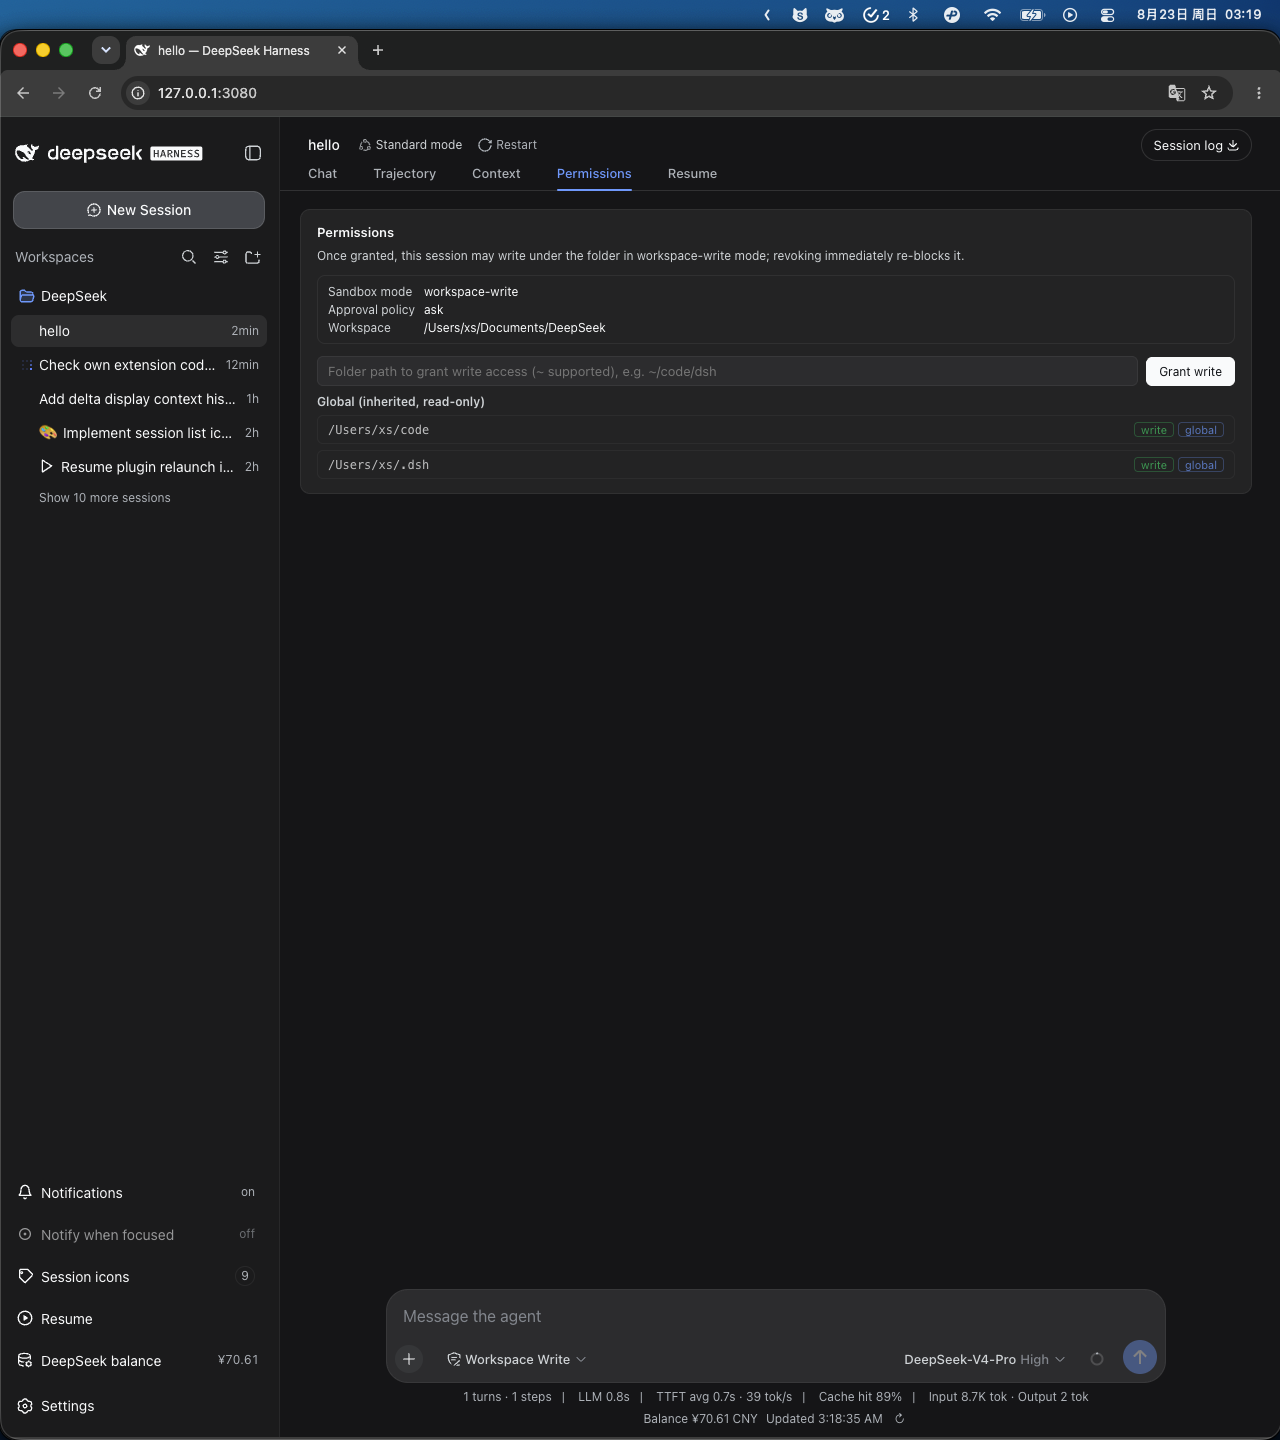
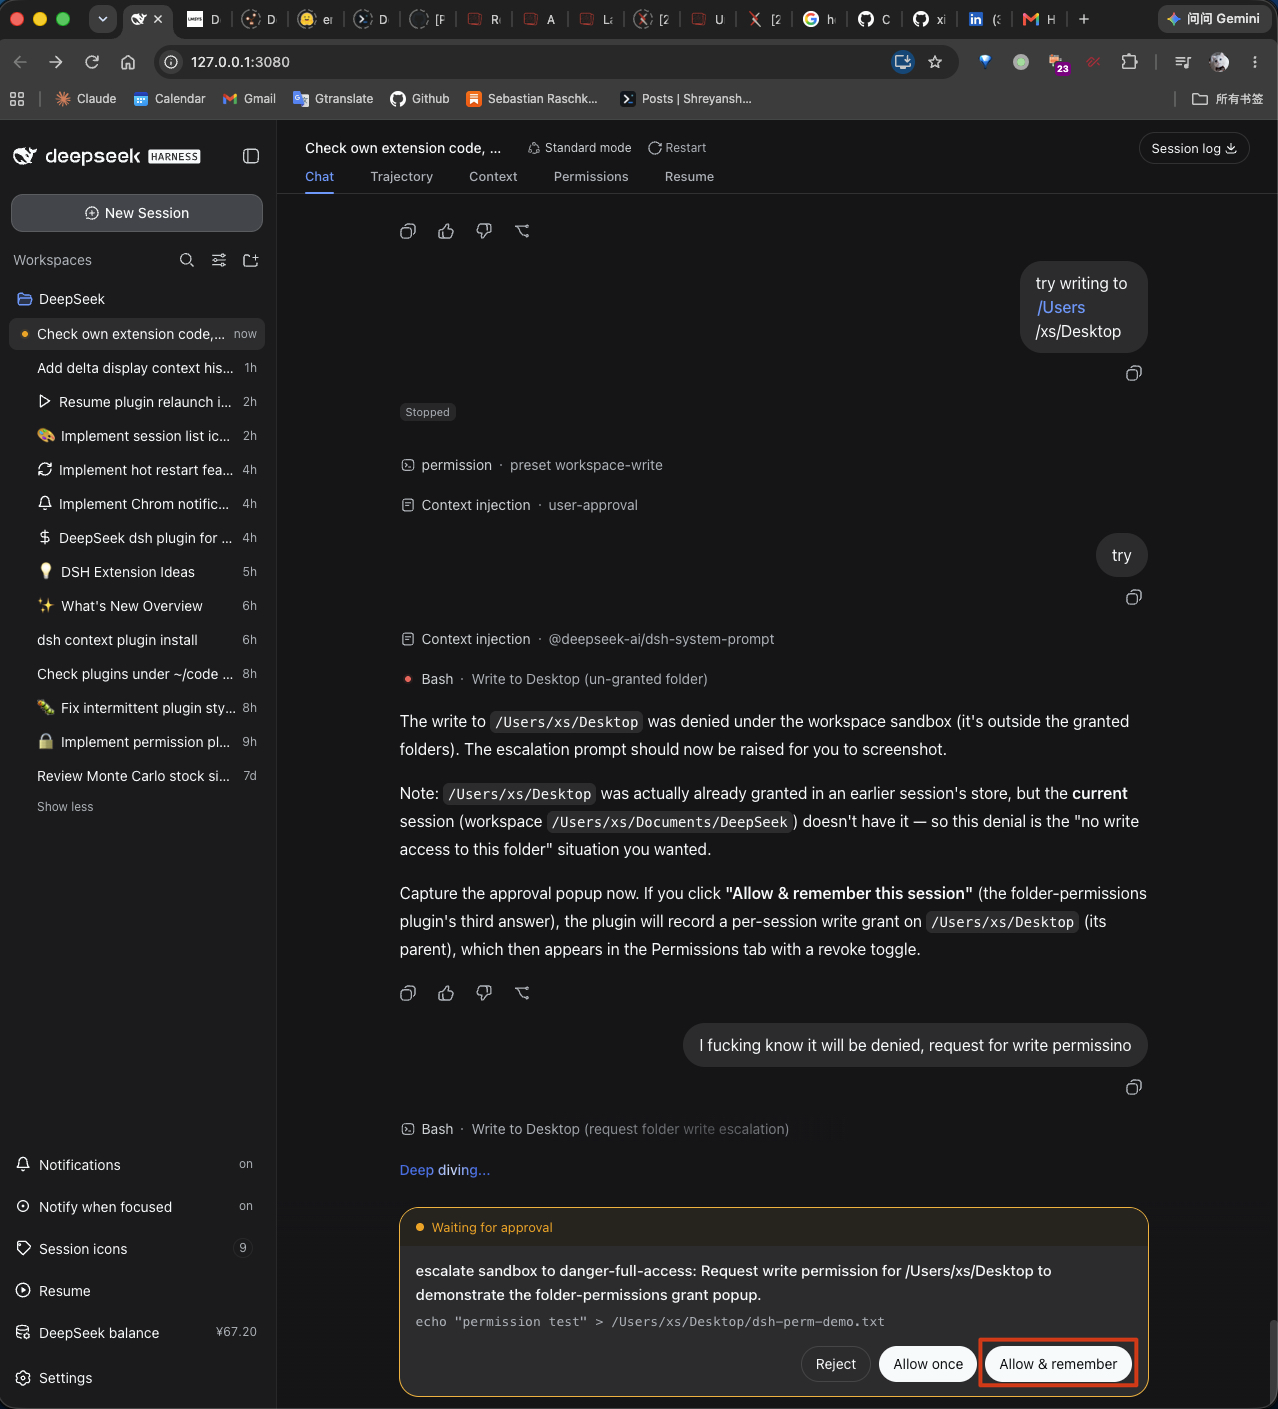
docs: use user-captured permission screenshots

diff --git a/README.md b/README.md
@@ -9,6 +9,8 @@ revocable at any time.
 
 ![The Permissions tab showing the session's sandbox mode and allowed folders; it lets you grant or revoke per-folder write access](docs/screenshot.png)
 
+![Granted write access with revoke toggle](docs/screenshot2.png)
+
 Implements the "Per-session folder-level read/write permissions" extension:
 the sandbox currently exposes one coarse `workspace-write` mode and otherwise
 requires a one-shot `danger-full-access` escalation per denied write. This
